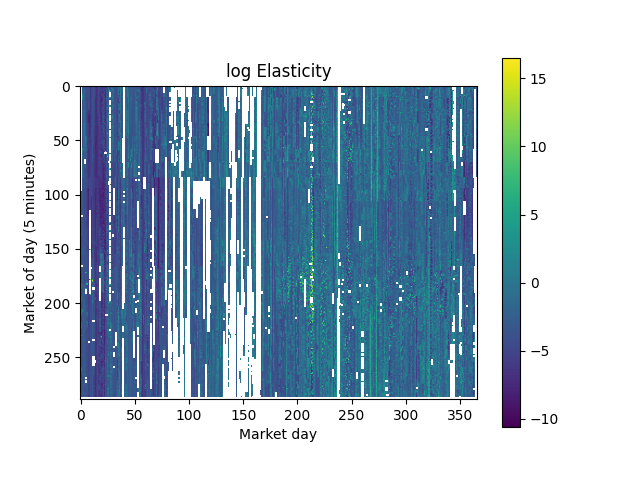
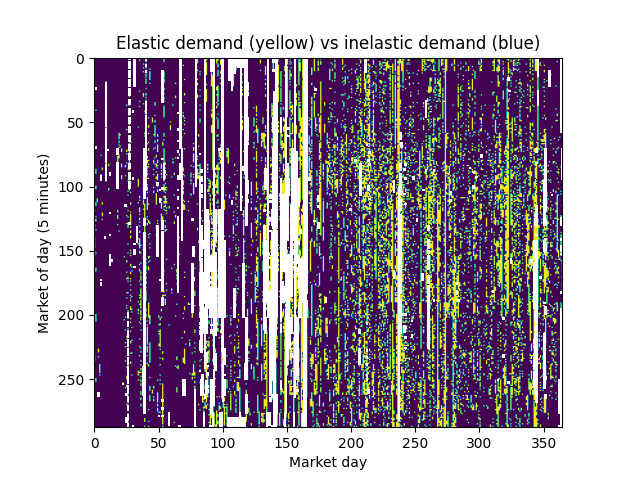
Update heatmaps

diff --git a/examples/plot_heatmap.py b/examples/plot_heatmap.py
@@ -2,6 +2,8 @@
 import sys, pandas, numpy, matplotlib.pyplot as pl
 from datetime import datetime
 
+tzoffset = -8
+
 pandas.options.display.width = None
 pandas.options.display.max_columns = None
 
@@ -23,19 +25,20 @@ def heatmap(map_data,**kwargs):
 	data = pandas.DataFrame(map_data)
 	# diff = map_data.max() - map_data.min()
 	# data[map_data.name] = (map_data - map_data.min())/diff*256
-	data['interval'] = data.index.get_level_values(0)%288
-	start = (data.index.get_level_values(0)//288).min()
-	data['period'] = data.index.get_level_values(0)//288-start
+	index = data.index.get_level_values(0)+tzoffset*12
+	data['interval'] = index%288
+	start = (index//288).min()
+	data['period'] = index//288-start
 	data.set_index(['interval','period'],inplace=True)
 	N,M = [x+1 for x in data.index.max()]
-	array = numpy.full((N+1,M+1),float('nan'))
+	array = numpy.full((N,M+1),float('nan'))
 	for index,value in data.to_dict()[map_data.name].items():
 		array[index] = value
 	fig = pl.imshow(array)
 	return fig
-heatmap(numpy.log(-buys.eta))
-pl.title('log Elasticity')
-pl.colorbar()
+
+heatmap(numpy.log(-buys.eta)>0)
+pl.title('Elastic demand (yellow) vs inelastic demand (blue)')
 pl.xlabel('Market day')
 pl.ylabel('Market of day (5 minutes)')
 pl.savefig('plot_heatmap_eta.png')
